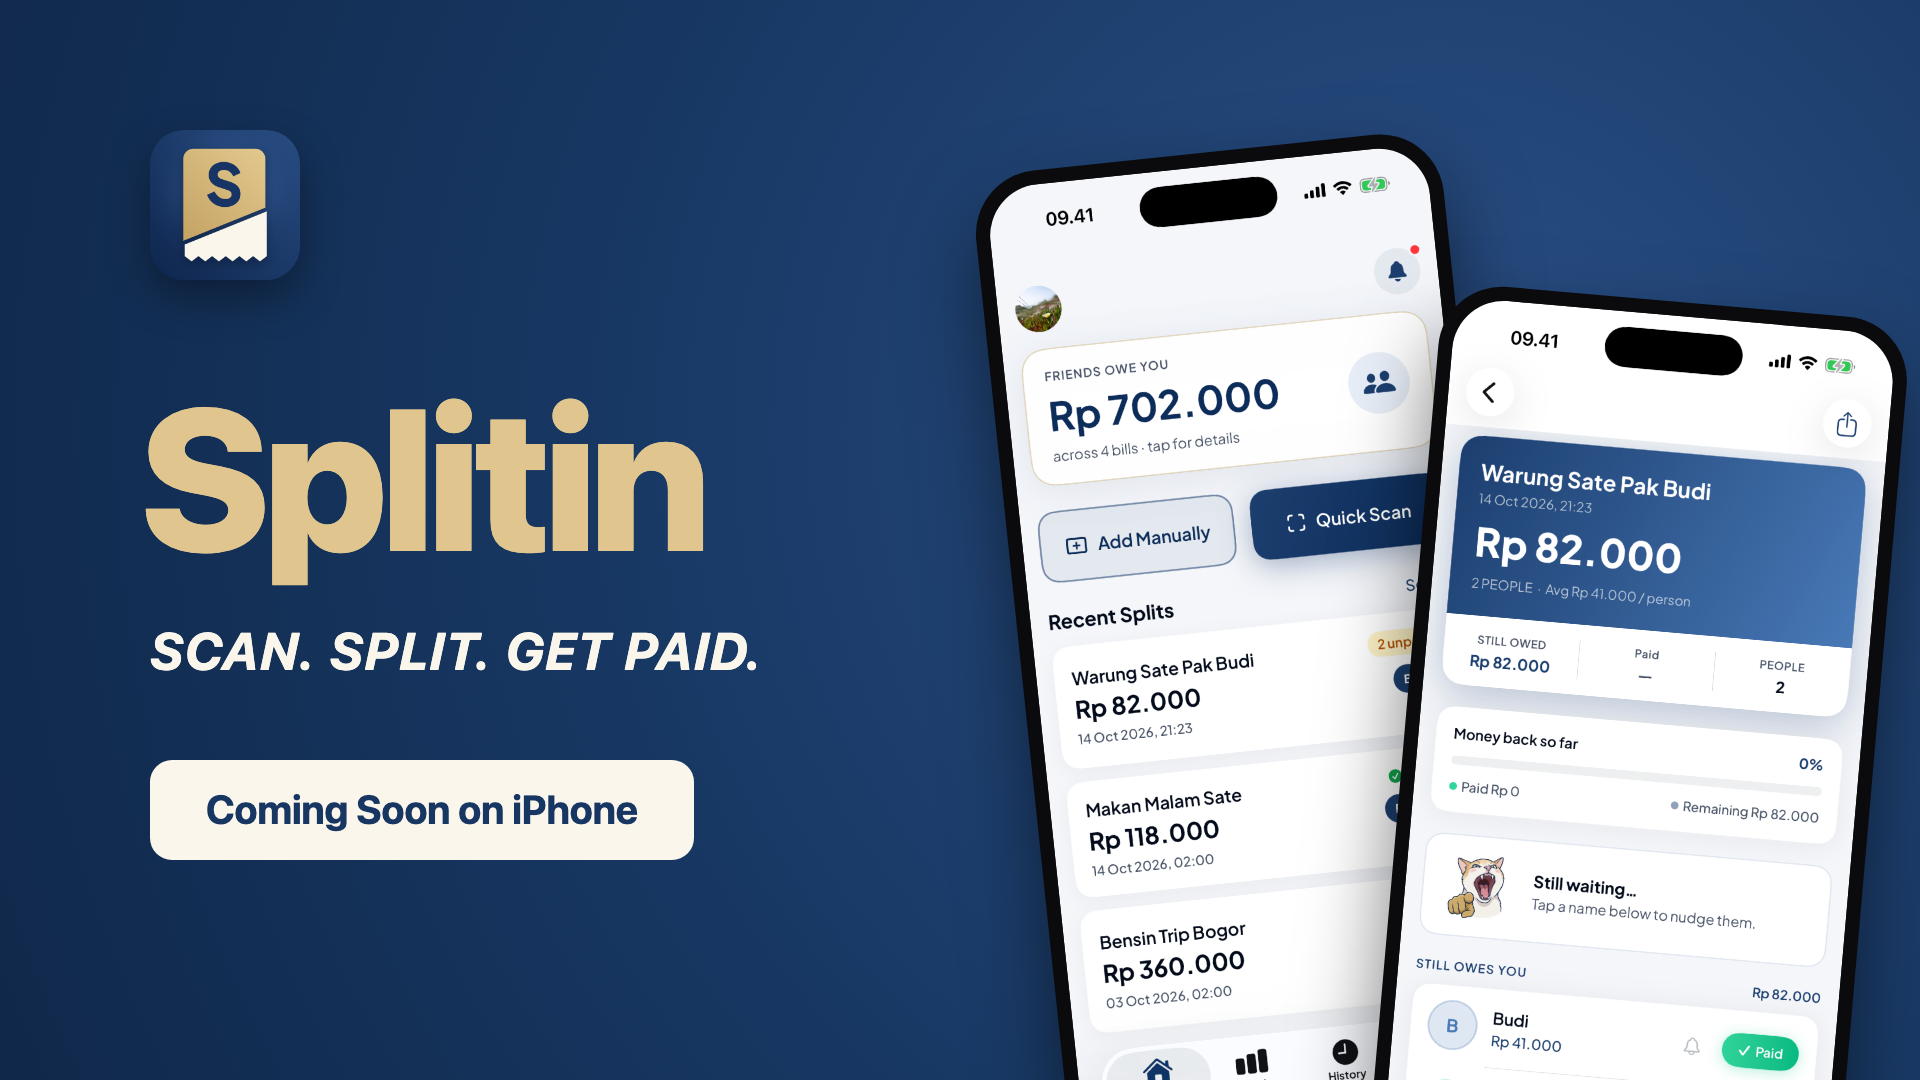
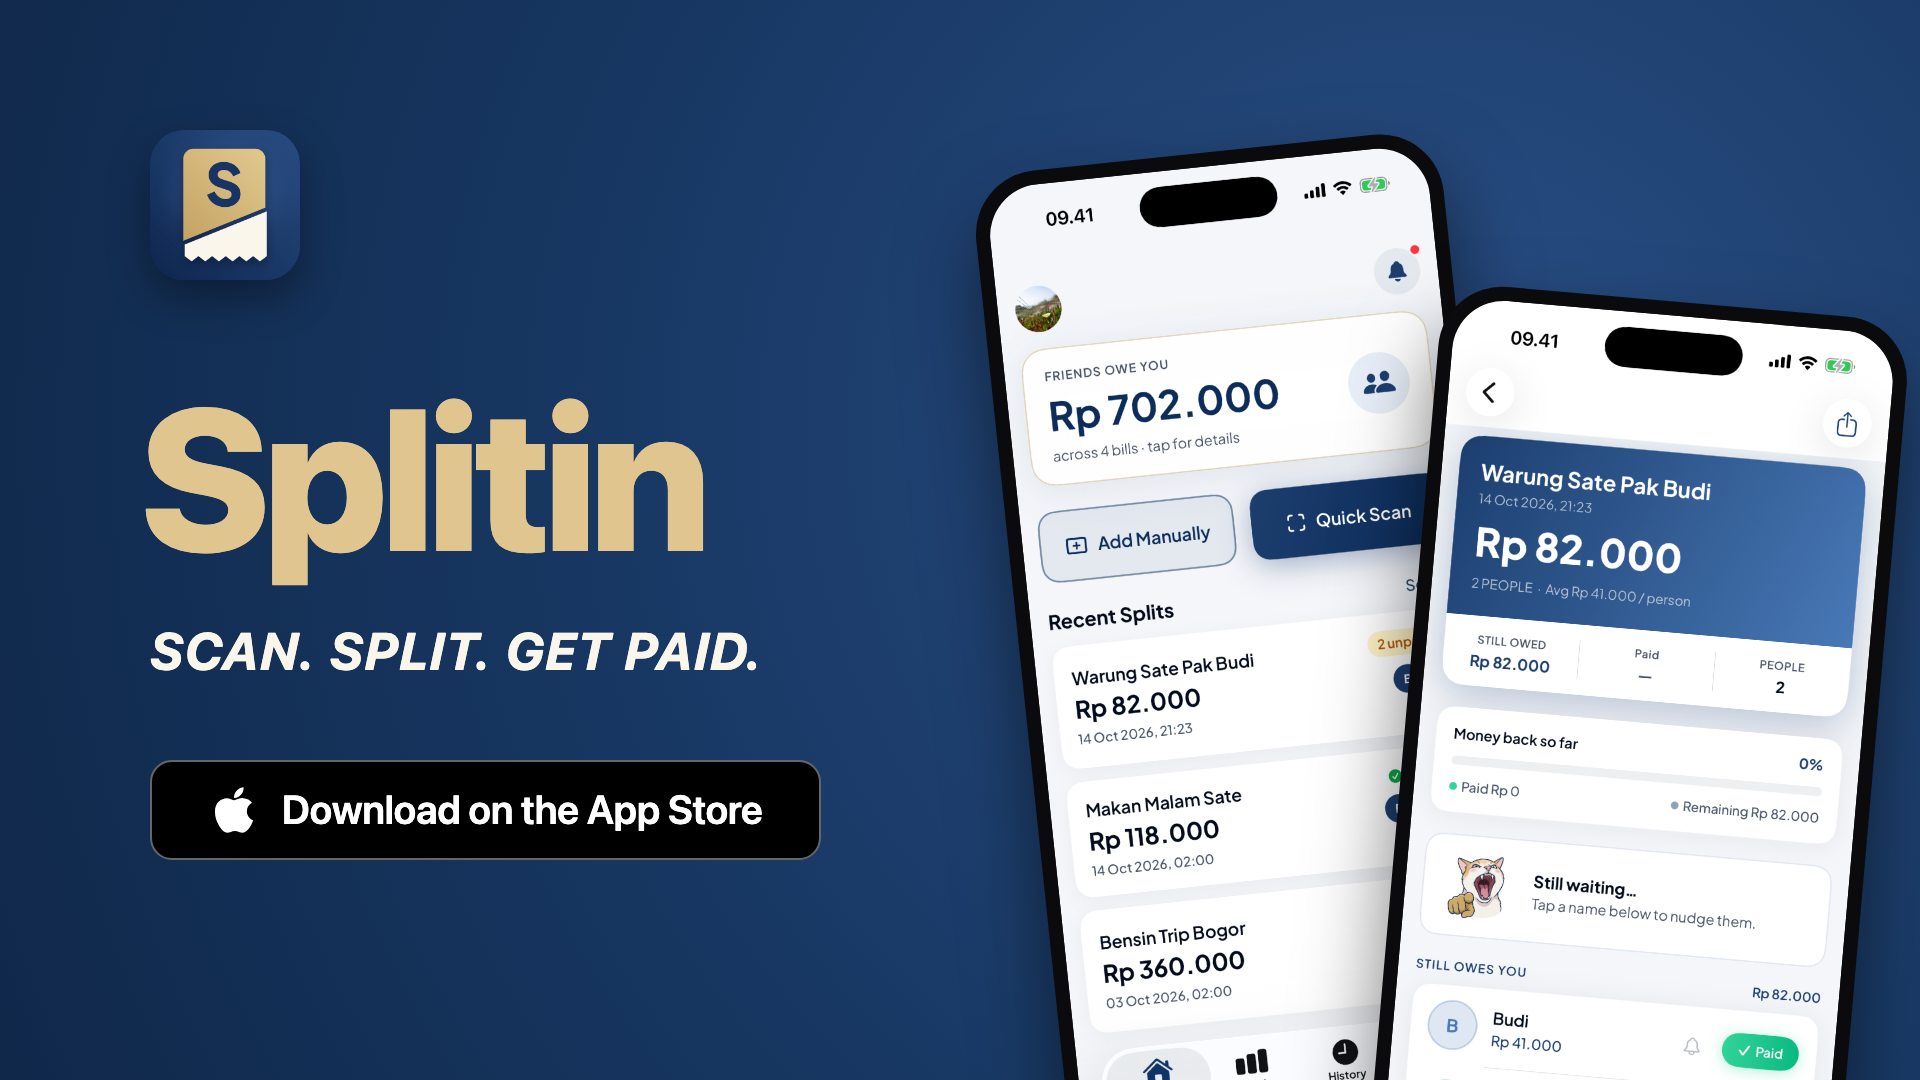
feat/ add Splitin & Soundboard Pop projects with support and privacy pages

Changed region(s): [[0.0625, 0.7028, 0.4375, 0.7944]]

diff --git a/index.html b/index.html
@@ -296,12 +296,12 @@
             <h2 class="section-title fade-in">My Apps in App Store</h2>
             <div class="appstore-marquee">
                 <div class="appstore-grid logo-only appstore-track">
-                    <div class="store-card logo-only fade-in" data-modal="splitin-modal" aria-label="Splitin — App Store release coming soon" tabindex="0">
+                    <div class="store-card logo-only fade-in" data-modal="splitin-modal" data-app-link="https://apps.apple.com/us/app/splitin/id6761731333" aria-label="Splitin" tabindex="0">
                         <div class="store-image-wrap logo-only">
                             <img src="assetsApps/Splitin/AppIcon.png" alt="Splitin app logo" class="store-logo">
                         </div>
                         <div class="store-label">
-                            <div class="store-name">Splitin — Coming Soon</div>
+                            <div class="store-name">Splitin</div>
                         </div>
                     </div>
 
@@ -516,6 +516,7 @@
 
             <h3>Support &amp; Legal:</h3>
             <div class="app-links">
+                <a href="https://apps.apple.com/us/app/splitin/id6761731333" target="_blank" rel="noopener" onclick="event.stopPropagation()">App Store</a>
                 <a href="splitin/support.html" target="_blank" rel="noopener" onclick="event.stopPropagation()">Support</a>
                 <a href="splitin/privacy.html" target="_blank" rel="noopener" onclick="event.stopPropagation()">Privacy Policy</a>
             </div>
